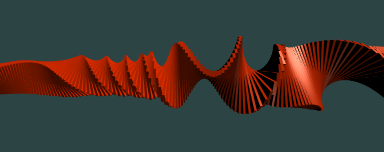
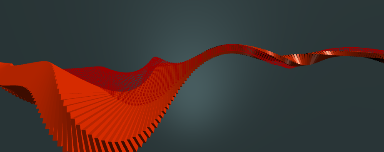
tweaks

diff --git a/src/scripts/sketch.js b/src/scripts/sketch.js
@@ -13,26 +13,28 @@
 
 			init = function(){
 				
-				var geometry,
-					material,
-					mesh,
-					i,
-					numBoxes = 200,
+				var numBoxes = 200,
 					boxWidth = 0.05,
 					boxDepth = 2,
+					geometry = new THREE.BoxGeometry( boxWidth, 1, boxDepth ),
+					material = new THREE.MeshPhongMaterial( { color: 0xFF3300, shininess: 100 } ),
+					mesh,
+					geometry2 = new THREE.BoxGeometry( 0.02, 1, 1.25 ),
+					mesh2,
+					edges,
+					i,
 					container,
 					model,
 					previousModel,
 					keyLight = new THREE.DirectionalLight( 0xffffff ),
 					bounceLight = new THREE.DirectionalLight( 0xffffff, 0.3 ),
+					backLight = new THREE.SpotLight( 0xffffff, 0.5, 0, Math.PI/3, 10.0),
 					debugCanvas;
 
 				container = new THREE.Object3D();
 
 				for(i = 0; i < numBoxes; i++){
 
-					geometry = new THREE.BoxGeometry( boxWidth, 1, boxDepth ),
-					material = new THREE.MeshPhongMaterial( { color: 0xFF3300, shininess: 100 } ),
 					mesh = new THREE.Mesh( geometry, material ),
 					container.add(mesh);
 
@@ -41,10 +43,24 @@
 					model.rotation.x = i * 0.04 ;
 					previousModel = model.clone();
 
+					mesh2 = new THREE.Mesh( geometry2 );
+					mesh2.visible = false;
+					edges = new THREE.EdgesHelper( mesh2, 0x990000 );
+					container.add(mesh2);
+					mesh.add(edges);
+					mesh2.position.y = -0.8;
+					mesh2.position.z = 0.25;
+
 					cubes.push({mesh:mesh, model:model, previousModel:previousModel});
 
 				}
 				scene.add( container );
+
+				geometry = new THREE.PlaneBufferGeometry( 100, 100, 1 );
+				material = new THREE.MeshPhongMaterial( { color: 0x4c6467, shininess:1} ),
+				mesh = new THREE.Mesh( geometry, material );
+				mesh.position.z = -5;
+				scene.add( mesh );
 
 				scene.add(keyLight);
 				keyLight.position.set( 1, 1, 0.5 );
@@ -52,10 +68,13 @@
 				scene.add(bounceLight);
 				bounceLight.position.set( 1, -1, 1 );
 
+				scene.add(backLight);
+				backLight.position.set( 0, -5, 0 );
+				backLight.target = mesh;
+				
 				renderer.setClearColor(0x2D4445);
 
 				camera.position.z = 3;
-
 
 				debugCanvas = document.createElement('canvas');
 				debugCanvas.style.position = 'absolute';
@@ -64,28 +83,28 @@
 				debugCanvas.style.zIndex = '1';
 				document.body.appendChild(debugCanvas);
 				debugContext = debugCanvas.getContext('2d');
-
 				debugCanvas.style.display = 'none';
 			
 			},
 			
 			update = function(timestep){
 				
-				var noiseSpeed = 0.02,
+				var noiseSpeed = 0.015,
 					noiseScale = 0.2,
-					rotationVelocity = 0.01,
+					rotationVelocity = 0.02,
 					noise,
 					index = 0;
 
 				cubes.forEach(function(cube){
 
 					noise = simplex.noise2D(cube.model.position.x * noiseScale, noiseY * noiseScale);
+					cube.model.position.y = noise;
 					noise = ((noise + 1) * 0.5);
 
 					cube.model.clone(cube.previousModel);
-					cube.model.rotation.x -= rotationVelocity * noise;
-					cube.model.scale.y = noise;
-					cube.model.scale.z = 1-noise;
+					cube.model.rotation.x -= rotationVelocity + ( 0.01 * noise );
+					cube.model.scale.y = 0.1 + Math.pow( 1 - noise, 4 );
+					cube.model.scale.z = 0.1 + Math.pow( 1 - noise, 4 ) * 3;
 
 					var gray = parseInt(noise * 255);
                    	debugContext.fillStyle = 'rgb('+gray+', '+gray+', '+gray+')';

diff --git a/README.md b/README.md
@@ -1,3 +1,8 @@
 # atm_0003
 
 Undulating cube wave
+
+Based on [F L U X by Candas Sisman](http://www.csismn.com/filter/Motion/F-L-U-X)
+
+![F L U X](http://payload.cargocollective.com/1/2/68300/813909/3_o.jpg)
+
